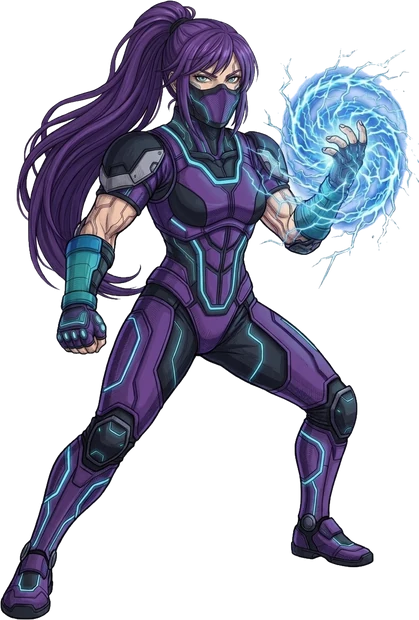
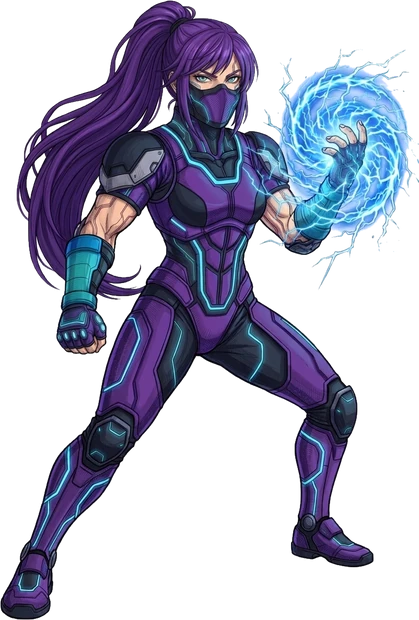
v232: Vesper art, more saturated version

diff --git a/game.js b/game.js
@@ -4,7 +4,7 @@
    ========================================================= */
 'use strict';
 (() => {
-const VERSION = 'v231';
+const VERSION = 'v232';
 
 let W = 384; const H = 216, GROUND = 190, GRAV = 0.34;
 let CX = 192; // centre horizontal
@@ -5547,8 +5547,8 @@ function drawTitle() {
 // Écran de sélection : personnages en entier à gauche (joueur 1) et à droite (joueur 2), grille 4 x 2 au centre
 const SEL_KEYS = ['hiro', 'axel', 'vesper', 'grog', 'zephyr', 'nyx', 'kael', 'vane'];   // indices DEFS
 const SEL_FACE_DIR = [-1, 1, 1, -1, 1, 1, -1, 1];   // sens du regard de chaque image en pied (indices DEFS : Hiro, Axel, Vesper, Grog, Zephyr, Nyx, Kael, Vane)
-const SEL_ART = SEL_KEYS.map(k => { const im = new Image(); lazySrc(im, 'sel_' + k + '.webp?v=3'); return im; });
-const SEL_FACE = SEL_KEYS.map(k => { const im = new Image(); lazySrc(im, 'face_' + k + '.jpg?v=7'); return im; });
+const SEL_ART = SEL_KEYS.map(k => { const im = new Image(); lazySrc(im, 'sel_' + k + '.webp?v=4'); return im; });
+const SEL_FACE = SEL_KEYS.map(k => { const im = new Image(); lazySrc(im, 'face_' + k + '.jpg?v=8'); return im; });
 const ADD_BTN = [0, 0, 0, 0], QR_POP = [0, 0, 0, 0];
 const inRect = (t, r) => t.x >= r[0] && t.x <= r[0] + r[2] && t.y >= r[1] && t.y <= r[1] + r[3];
 const imgOk = im => im && (im instanceof HTMLCanvasElement ? im.width > 0 : im.complete && im.naturalWidth);

diff --git a/index.html b/index.html
@@ -33,7 +33,7 @@
 <link rel="preconnect" href="https://fonts.googleapis.com">
 <link rel="preconnect" href="https://fonts.gstatic.com" crossorigin>
 <link href="https://fonts.googleapis.com/css2?family=Press+Start+2P&display=swap" rel="stylesheet">
-<link rel="stylesheet" href="style.css?v=231">
+<link rel="stylesheet" href="style.css?v=232">
 </head>
 <body>
 <div id="app">
@@ -68,6 +68,6 @@
 
 <script async src="https://cdnjs.cloudflare.com/ajax/libs/peerjs/1.5.4/peerjs.min.js"></script>
 <script async src="https://cdnjs.cloudflare.com/ajax/libs/qrcode-generator/1.4.4/qrcode.min.js"></script>
-<script src="game.js?v=231"></script>
+<script src="game.js?v=232"></script>
 </body>
 </html>
